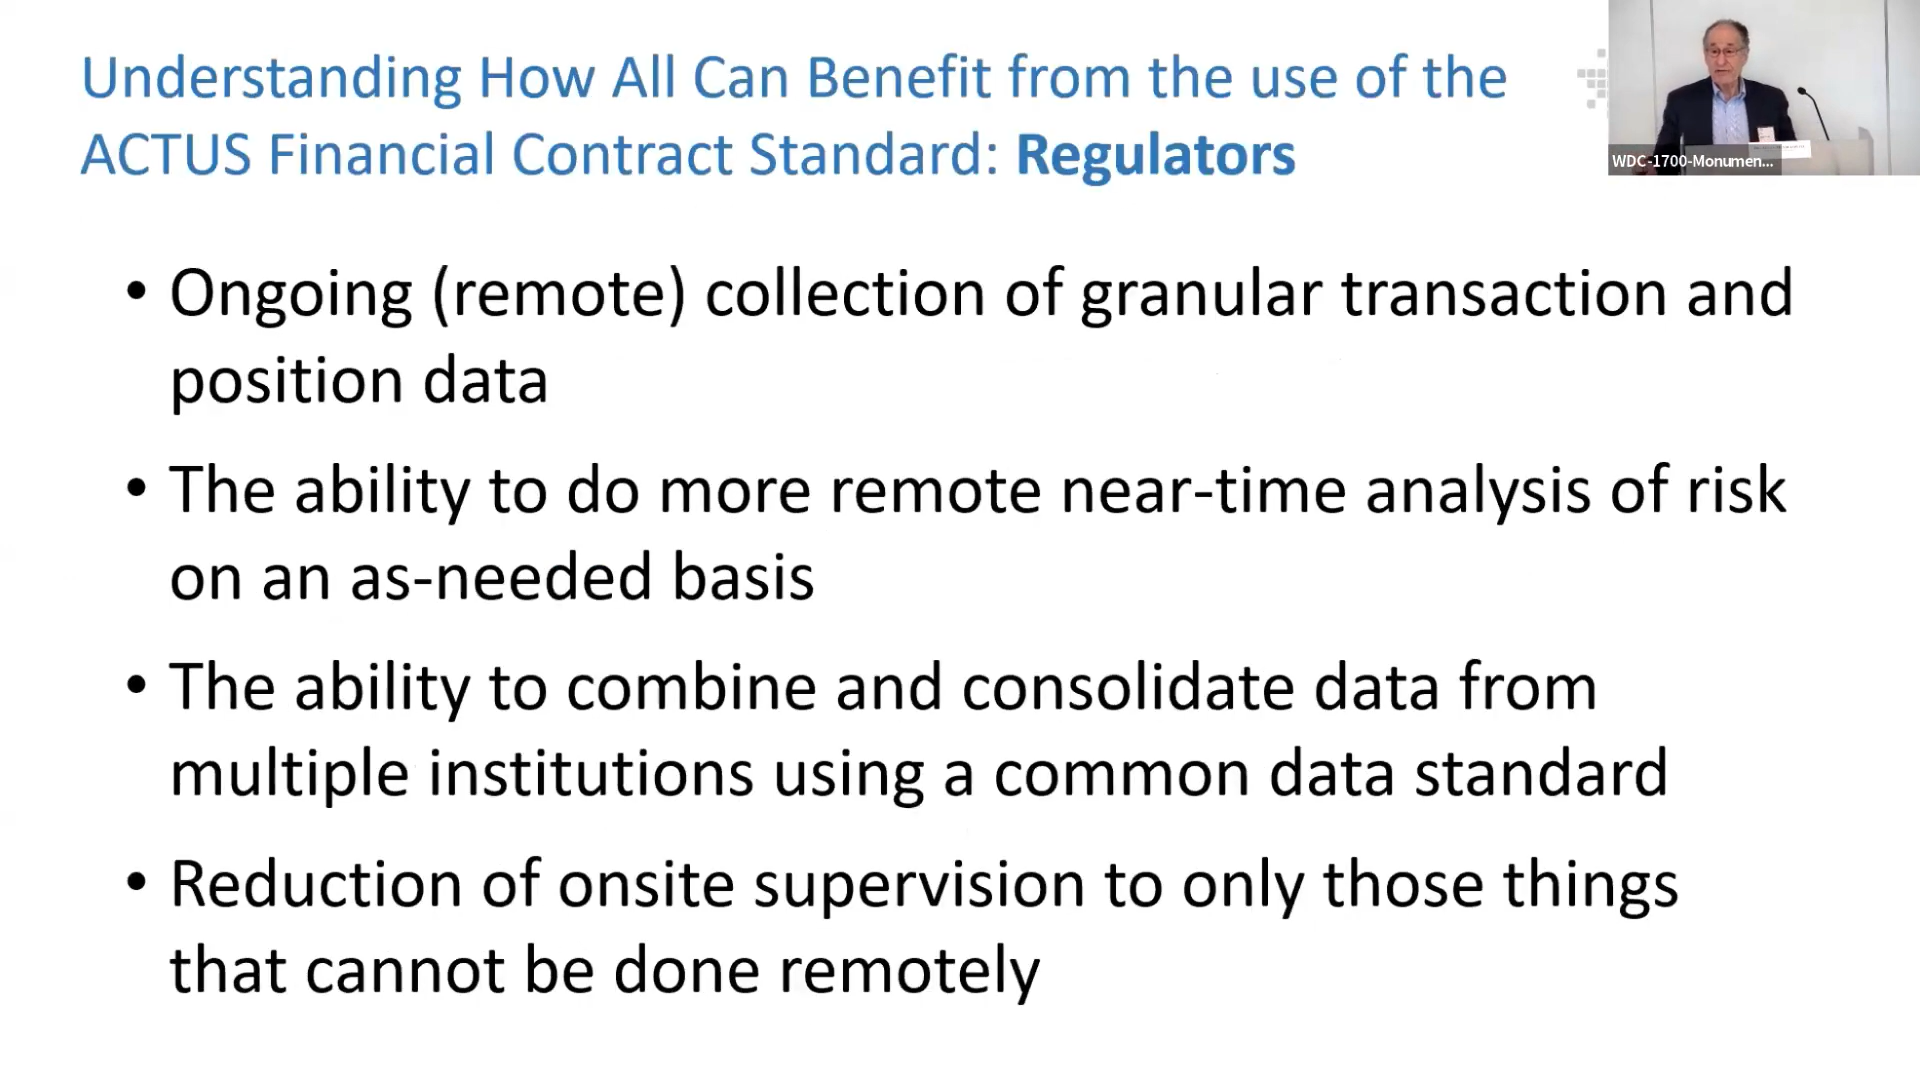
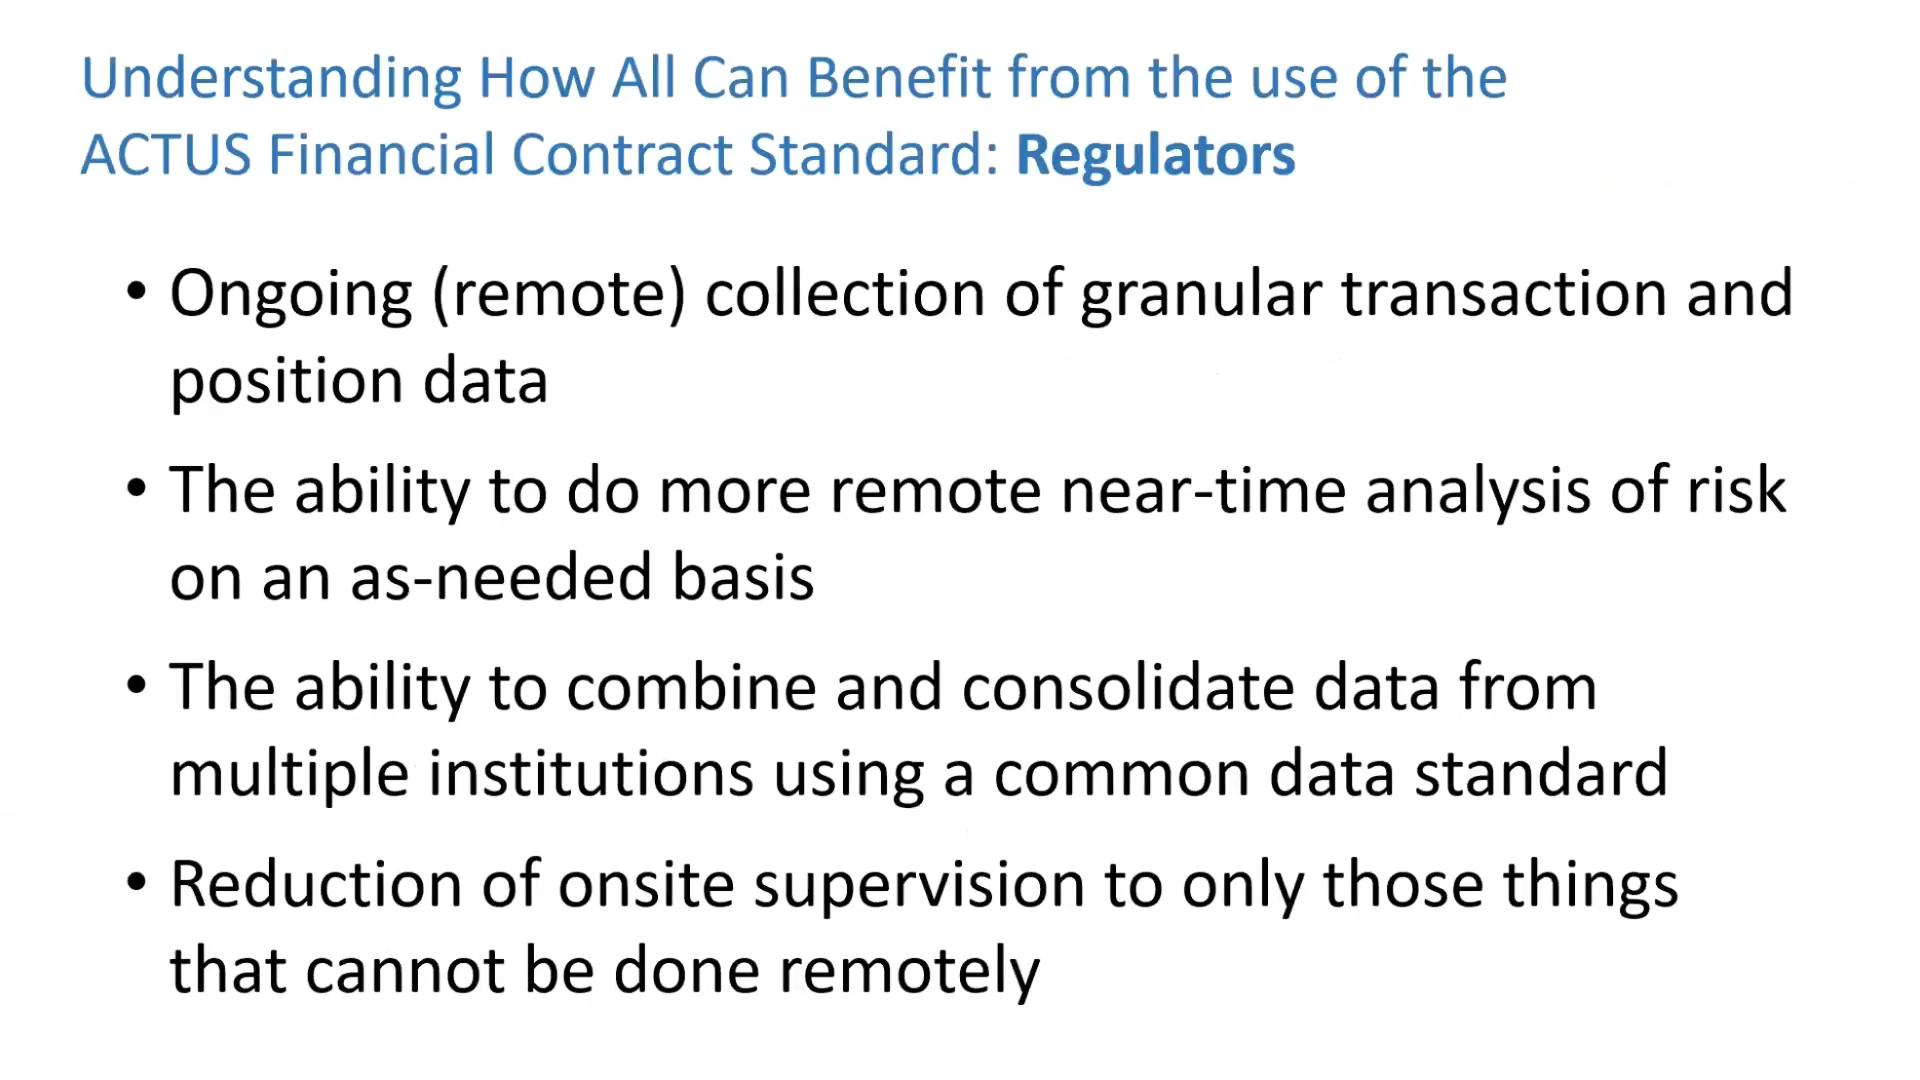
fix: removed presenters from slide's screenshots

Changed region(s): [[0.8125, 0.0, 1.0, 0.1833]]

diff --git a/docs/Introduction/Model-for-analytics.md b/docs/Introduction/Model-for-analytics.md
@@ -6,7 +6,7 @@ sidebar_position: 4
 
 This enhanced model provides a step-by-step approach to understanding financial contracts. Starting with risk factors and contract details, it tracks the flow of events and expected cash flows, ultimately leading to analytical results. These results help financial institutions manage risks, predict outcomes, and make informed decisions in a complex financial environment.
 
-![image](https://github.com/user-attachments/assets/0d53aa26-eb88-4268-91ad-7baf959ac23d)
+![image](../../assets/analytics_model2.png)
 Watch video – [YouTube](https://youtu.be/DGbhhUmrwWU?si=V1ibiBrYBs8UH36&t=538s)
 
 The model offers a comprehensive framework for analyzing financial contracts. It explains how various inputs and events lead to expected cash flows and ultimately affect key financial outcomes like liquidity, income, and value.
@@ -14,6 +14,7 @@ The model offers a comprehensive framework for analyzing financial contracts. It
 ## 1. Risk Factors Inputs
 
 These are the initial inputs that influence the various risk categories impacting the financial contract:
+
 - **Economic Data**: Market conditions and economic indicators.
 - **Credit Scores**: Assessments of creditworthiness.
 - **Market Volatility**: Fluctuations in the market affecting investments.
@@ -24,6 +25,7 @@ These inputs are essential for assessing the risk level of a financial contract.
 ## 2. Risk Factors
 
 These are the risks that directly affect the financial contract:
+
 - **Credit Risk Factors**: The likelihood of a borrower defaulting on payments.
 - **Market Risk Factors**: Risks related to changes in interest rates, stock prices, or currency values.
 - **Behavior Risk Factors**: Risks arising from unpredictable human behaviors, such as defaulting or early loan repayment.
@@ -31,6 +33,7 @@ These are the risks that directly affect the financial contract:
 ## 3. Contract Inputs
 
 These inputs consist of the specific details of the financial contract:
+
 - **Principal Amount**: The amount of money borrowed or invested.
 - **Interest Rates**: The cost of borrowing or return on investment.
 - **Payment Schedules**: Timelines for repayments or returns.
@@ -41,6 +44,7 @@ These details define how the contract will behave under various risk scenarios.
 ## 4. Contract Events
 
 These are key events that happen throughout the contract's duration:
+
 - **Scheduled Events**: Regular occurrences such as monthly payments.
 - **Unexpected Events**: Events like defaults or contract amendments.
 - **Decisions**: Actions taken by the parties involved that affect the contract’s course.
@@ -50,6 +54,7 @@ The timing and occurrence of these events are critical for understanding the con
 ## 5. Expected Cash Flows
 
 As events happen, they generate cash flows:
+
 - **Inflows**: Money coming into the contract, such as payments received.
 - **Outflows**: Money leaving the contract, such as payments made.
 
@@ -58,12 +63,13 @@ These expected cash flows are modeled based on the contract inputs and the influ
 ## 6. Analytical Results
 
 The final analysis focuses on three main outcomes:
+
 - **Liquidity**: The contract’s ability to generate cash quickly to meet short-term needs.
 - **Income**: The earnings derived from the contract, such as interest.
 - **Value**: The overall worth of the contract after considering all cash flows and risks.
 
 These results are crucial for understanding the financial health of the contract and guiding decision-making for institutions, investors, and regulators.
 
-## Actus in Financial Analytics
+## ACTUS in Financial Analytics
 
-By using Actus, institutions can improve the accuracy and reliability of their financial analytics, leading to better decision-making and risk management.
+By using ACTUS, institutions can improve the accuracy and reliability of their financial analytics, leading to better decision-making and risk management.

diff --git a/docs/Introduction/Overview.md b/docs/Introduction/Overview.md
@@ -1,21 +1,21 @@
 ---
 sidebar_position: 1
 ---
+
 # Overview
 
-In the financial world, institutions like banks and investment firms keep track of their financial status using **balance sheets**. A balance sheet is like a snapshot that shows what the institution owns (assets), what it owes (liabilities), and other financial commitments it has made, known as **financial contracts**. 
+In the financial world, institutions like banks and investment firms keep track of their financial status using **balance sheets**. A balance sheet is like a snapshot that shows what the institution owns (assets), what it owes (liabilities), and other financial commitments it has made, known as **financial contracts**.
 
 Financial contracts are unique because they outline specific agreements where money will be exchanged in the future. These contracts are critical because they provide the foundation for many financial activities, from loans and mortgages to investments. However, managing these contracts can be quite complicated, especially when institutions rely on outdated technology or inconsistent methods.
 
-This complexity leads to challenges in handling financial data, making it difficult for institutions to operate efficiently and for regulators (who oversee the financial system) to monitor and manage risks effectively. To address these challenges, the **Actus project** was developed.
+This complexity leads to challenges in handling financial data, making it difficult for institutions to operate efficiently and for regulators (who oversee the financial system) to monitor and manage risks effectively. To address these challenges, the **ACTUS project** was developed.
 
-## What is Actus?
+## What is ACTUS?
 
-Actus (Algorithmic Contracts Types Unified Standards) is a standardization framework for financial contracts. It aims to bring consistency and clarity to how financial contracts are represented, executed, and analyzed across different platforms and institutions.
+ACTUS (Algorithmic Contracts Types Unified Standards) is a standardization framework for financial contracts. It aims to bring consistency and clarity to how financial contracts are represented, executed, and analyzed across different platforms and institutions.
 
 ![image](https://github.com/user-attachments/assets/e0d7d4f3-1f2b-4f54-a113-d40fbe755d70)
 
-## Need for Actus
+## Need for ACTUS
 
-Financial contracts are the foundation of the financial world, representing promised cash flows that define the assets and liabilities of institutions. However, managing these contracts efficiently and accurately has been a significant challenge due to outdated systems and a lack of standardization. Actus addresses these issues by providing a universal standard that applies across legacy financial institutions, regulatory environments, and emerging decentralized finance (DeFi) platforms.
-
+Financial contracts are the foundation of the financial world, representing promised cash flows that define the assets and liabilities of institutions. However, managing these contracts efficiently and accurately has been a significant challenge due to outdated systems and a lack of standardization. ACTUS addresses these issues by providing a universal standard that applies across legacy financial institutions, regulatory environments, and emerging decentralized finance (DeFi) platforms.

diff --git a/docs/Introduction/Understanding-Financial-Contracts-and-Systems.md b/docs/Introduction/Understanding-Financial-Contracts-and-Systems.md
@@ -1,10 +1,13 @@
 ---
 sidebar_position: 3
 ---
+
 # Understanding Financial Contracts and Systems
+
 ## Today's Financial Contracts
 
-![image](https://github.com/user-attachments/assets/92f43299-21b6-4e5f-88cf-dc2022384c05)
+![image](../../assets/traditional_contract.png)
+
 - Watch video – [YouTube](https://youtu.be/DGbhhUmrwWU?si=V1ibiBrYBs8UH36&t=324s)
 
 ## Centrality of Financial Contracts
@@ -14,19 +17,25 @@ Financial contracts are the backbone of modern financial systems. They facilitat
 ### Underlying Insights at the Heart of the ACTUS Standard
 
 #### Financial Contracts
+
 Financial contracts are agreements that involve the exchange of promised payments. Although these contracts are initially written in natural language, they are converted into algorithms to compute payment obligations.
 
 #### Algorithm Representation
+
 A single algorithm can represent various types of financial contracts, including annuities and mortgages. This highlights the versatility and efficiency of algorithmic representation in financial computations.
 
 #### Cash Flow Patterns
+
 Despite the wide range of financial products, they generally use a limited number of cash flow patterns. Most payment obligations can be represented by fewer than three dozen algorithms, underscoring the commonality in financial contract structures.
 
 - Watch video – [YouTube](https://youtu.be/DGbhhUmrwWU?si=V1ibiBrYBs8UH36&t=378s)
 
 ## How to think about financial systems
-![image](https://github.com/user-attachments/assets/a4ff5019-c2b3-47d0-9a83-4ca20bdd8458)
+
+![image](../../assets/transaction.png)
+
 - Watch video – [YouTube](https://youtu.be/DGbhhUmrwWU?si=V1ibiBrYBs8UH36T&t=399s)
+
 ### Transaction Processing
 
 In today's financial systems, contract terms are processed by algorithms to determine the promised cash receipts. This algorithmic processing ensures accurate and efficient handling of financial transactions.
@@ -34,5 +43,3 @@ In today's financial systems, contract terms are processed by algorithms to dete
 ### Financial Analysis
 
 Risk factors are forecasted, and contract terms are processed by algorithms to generate expected state-contingent cash flows. This process leads to comprehensive financial analysis results, providing insights into potential financial outcomes under various scenarios.
-
-

diff --git a/docs/Introduction/Benefits of ACTUS.md b/docs/Introduction/Benefits of ACTUS.md
@@ -1,10 +1,12 @@
 ---
 sidebar_position: 5
 ---
+
 # Benefits of ACTUS
+
 - Watch video – [YouTube](https://youtu.be/DGbhhUmrwWU?si=V1ibiBrYBs8UH36&t=641s)
 
-## Key Advantages of the Actus Standard
+## Key Advantages of the ACTUS Standard
 
 1. **Improved Efficiency:** Standardizes financial contracts, reducing inefficiencies and costs, and speeding up operations.
 
@@ -22,7 +24,7 @@ sidebar_position: 5
 
 ## For Banks
 
-![image](https://github.com/user-attachments/assets/1f2298d0-a129-4083-955a-0c2987f51b67)
+![image](../../assets/actus_bankers-insights.png)
 
 1. **Transaction Processing:** Enhances core systems for more efficient processing of transactions.
 
@@ -33,7 +35,8 @@ sidebar_position: 5
 4. **Regulatory Reporting:** Reduces the cost and complexity of regulatory reporting by providing standardized data.
 
 ## For Regulators
-![image](https://github.com/user-attachments/assets/efac1878-7310-4b5a-b163-0b90eed2aaf8)
+
+![image](../../assets/actus-regulators-insights.png)
 
 1. **Data Collection:** Enables ongoing remote collection of detailed transaction and position data.
 

diff --git a/docs/Introduction/core_activities.md b/docs/Introduction/core_activities.md
@@ -1,13 +1,14 @@
 ---
 sidebar_position: 2
 ---
+
 # Core Activities in the Financial Sector
 
 ## Financial Contracts in the Financial Sector
 
 In the financial sector, core activities revolve around financial contracts. These contracts include:
 
-![image](https://github.com/user-attachments/assets/dc86c5f4-083c-4e12-8115-270aee742b66)
+![image](../../assets/core_activities_finance.png)
 
 Watch video – [YouTube](https://youtu.be/DGbhhUmrwWU?si=V1ibiBrYBs8UH36&t=130s)
 
